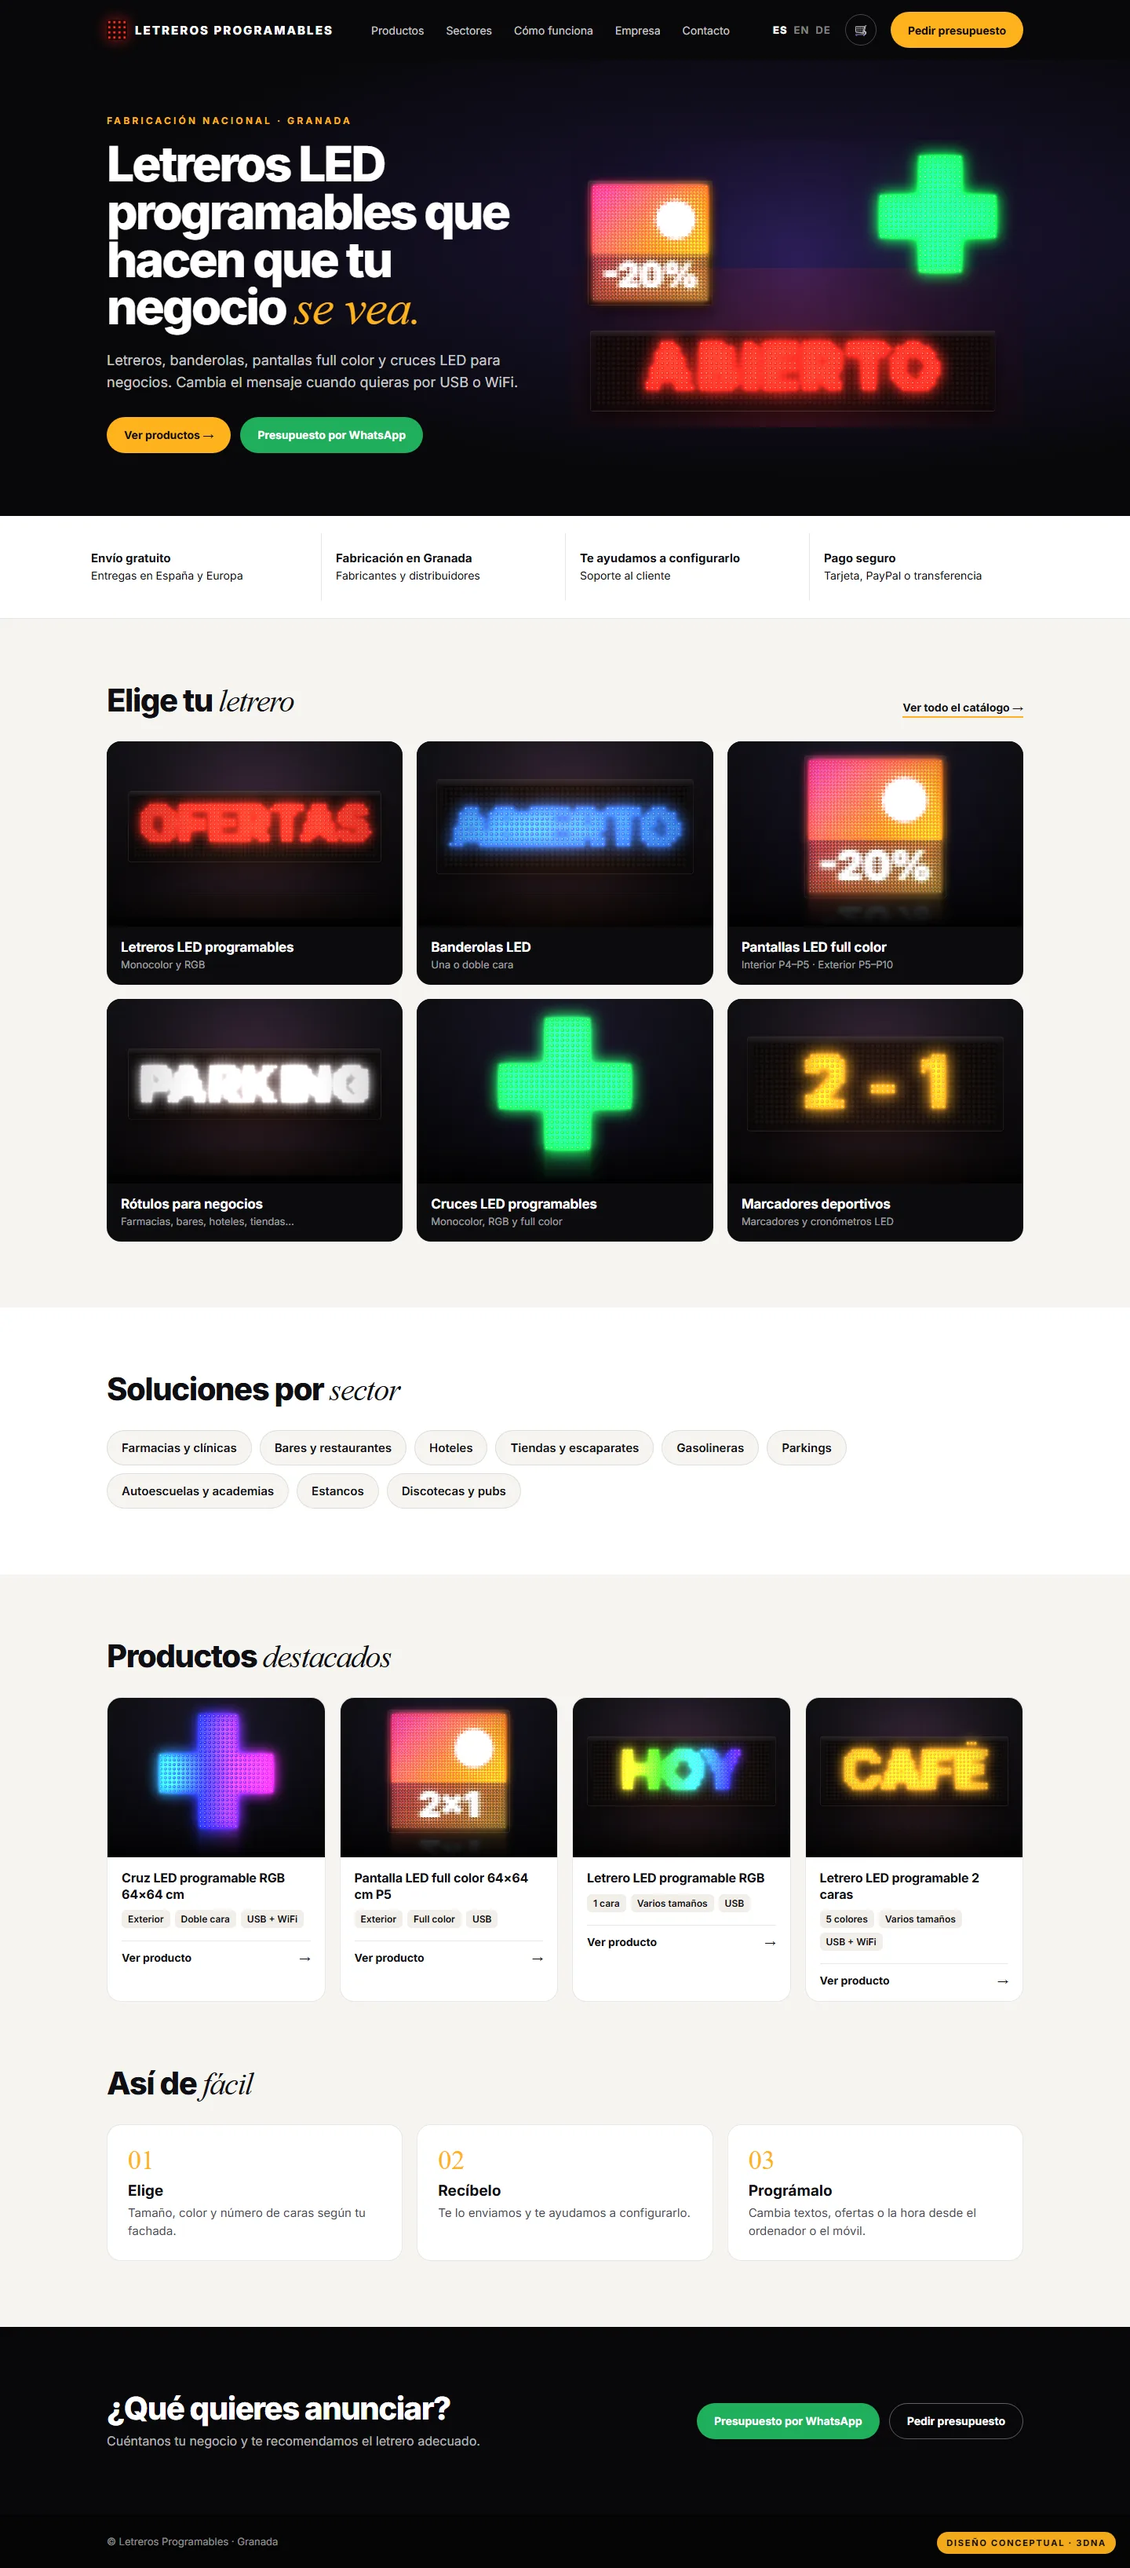
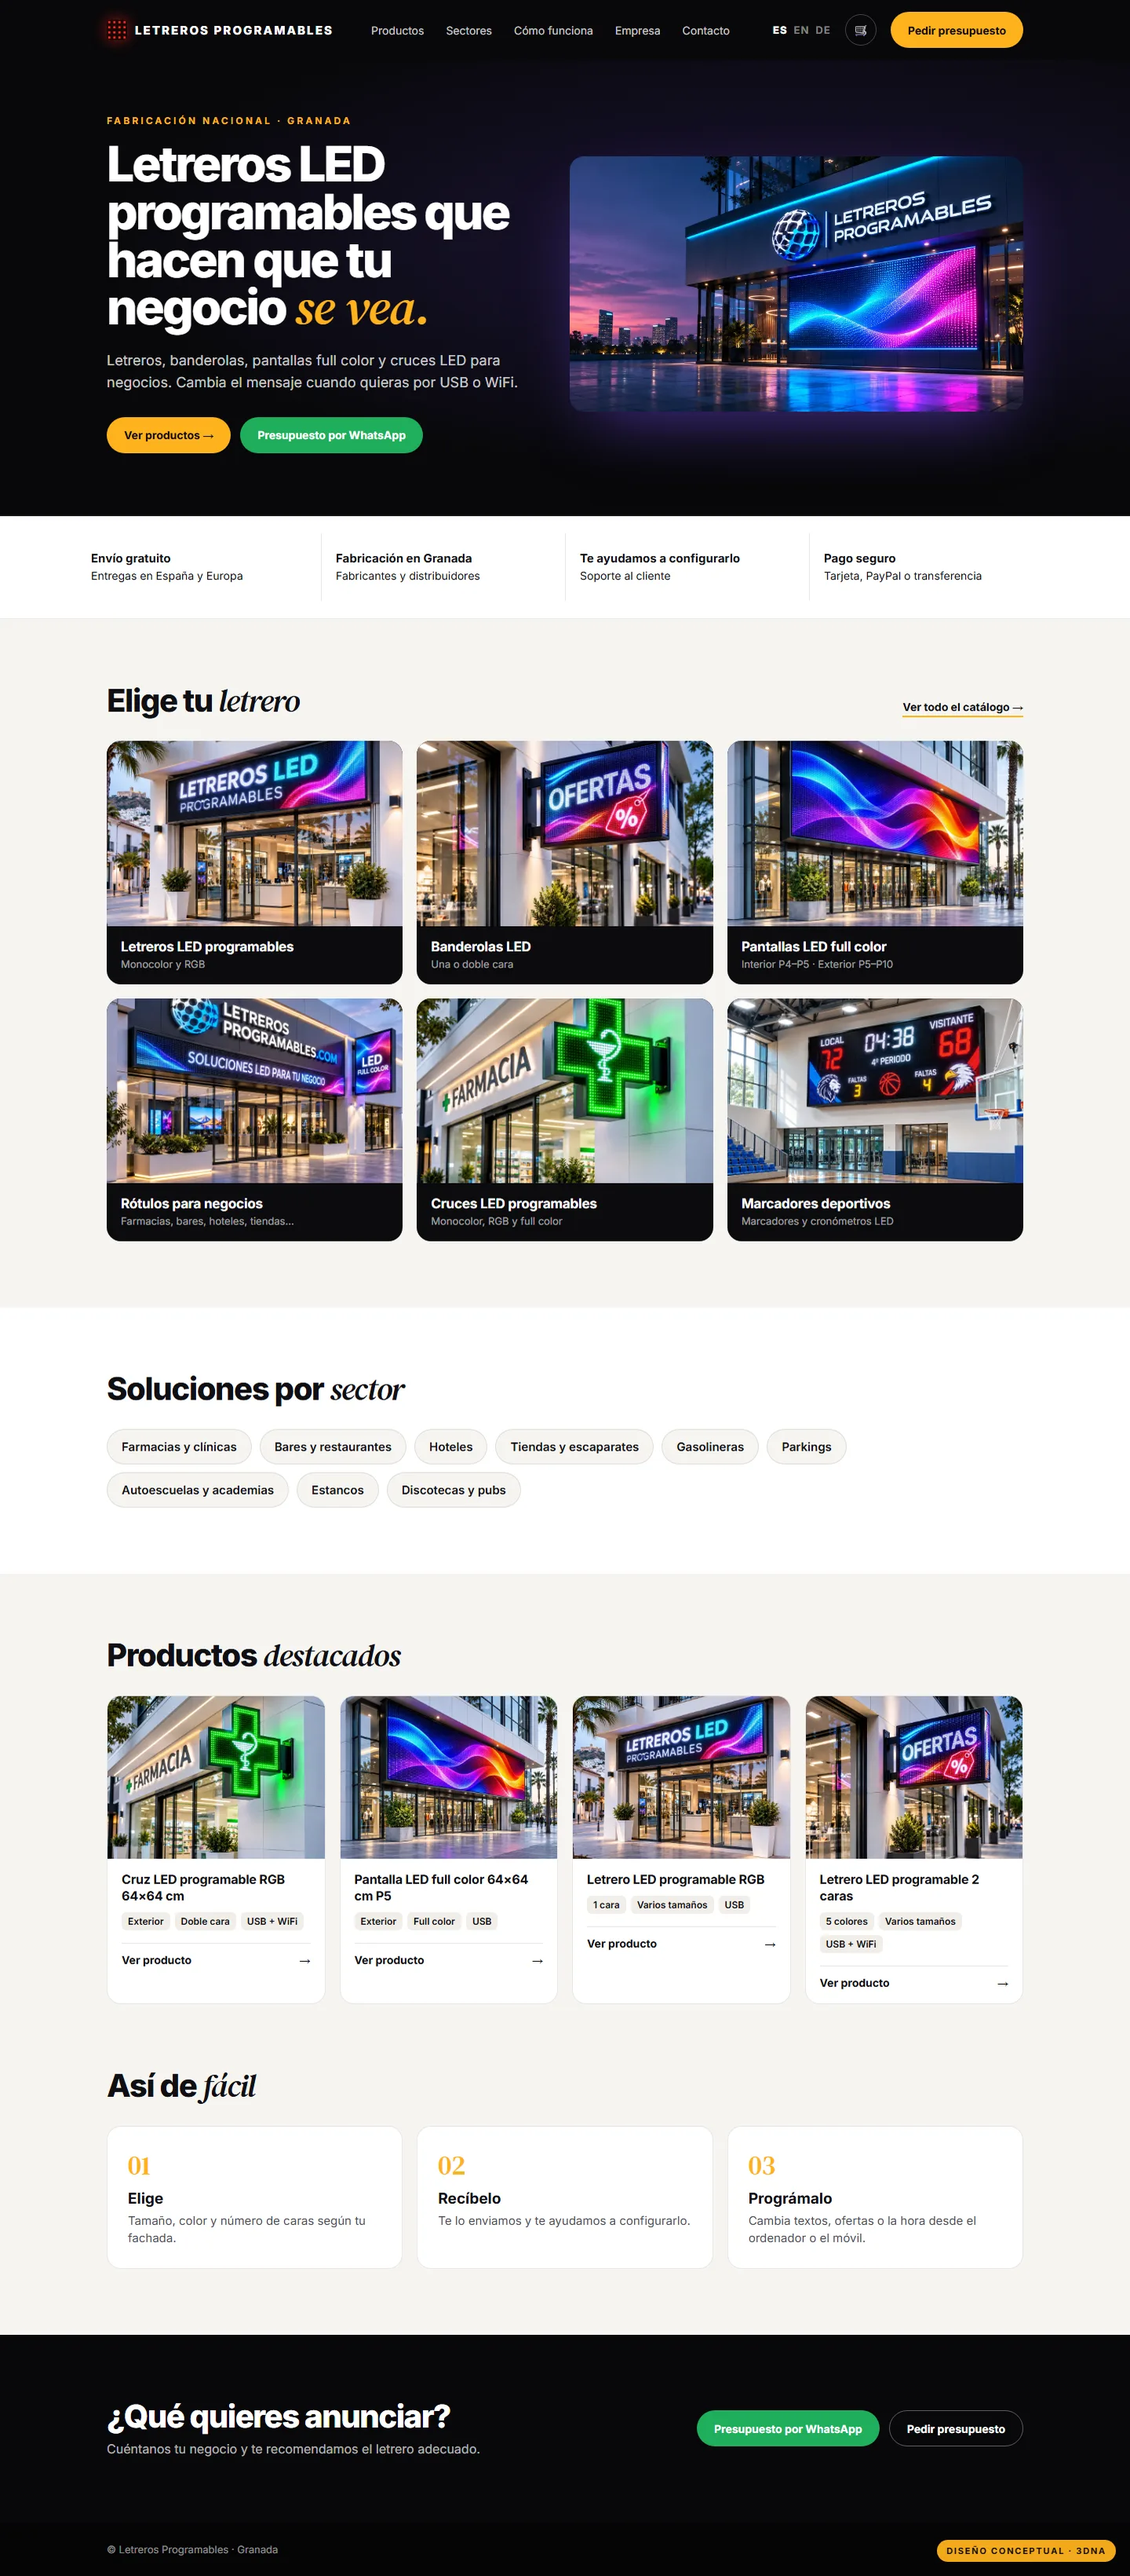
Letreros Programables proposal: homepage mockups (desktop, ES/EN/DE mobile) rebuilt with the product visuals.

diff --git a/scripts/marketing-visuals/letreros-home.html b/scripts/marketing-visuals/letreros-home.html
@@ -49,7 +49,7 @@
   .ctas { display: flex; flex-wrap: wrap; gap: 12px; }
   .m .ctas .btn { flex: 1 1 100%; justify-content: center; }
   .hero .w > * { min-width: 0; }
-  .heroart canvas { width: 100%; max-width: 100%; height: auto; display: block; }
+  .heroart img { width: 100%; height: auto; display: block; border-radius: 18px; box-shadow: 0 30px 80px -30px rgba(120,80,255,.55); }
   /* trust */
   .trust { background: #fff; border-bottom: 1px solid var(--line); }
   .trust .w { display: grid; grid-template-columns: repeat(4, 1fr); }
@@ -69,7 +69,7 @@
   .cats { display: grid; grid-template-columns: repeat(3, 1fr); gap: 18px; }
   .m .cats { grid-template-columns: 1fr 1fr; gap: 10px; }
   .cat { background: #0b0b0e; color: #fff; border-radius: 18px; overflow: hidden; }
-  .cat canvas { width: 100%; display: block; }
+  .cat img { width: 100%; aspect-ratio: 16 / 10; object-fit: cover; display: block; }
   .cat div { padding: 16px 18px 18px; }
   .m .cat div { padding: 10px 12px 13px; }
   .cat b { display: block; font-size: 17px; letter-spacing: -.01em; }
@@ -83,7 +83,7 @@
   .prods { display: grid; grid-template-columns: repeat(4, 1fr); gap: 18px; }
   .m .prods { grid-template-columns: 1fr; gap: 14px; }
   .prod { background: #fff; border-radius: 18px; overflow: hidden; border: 1px solid var(--line); }
-  .prod canvas { width: 100%; display: block; background: #0b0b0e; }
+  .prod img { width: 100%; aspect-ratio: 4 / 3; object-fit: cover; display: block; }
   .prod .b { padding: 16px 18px 18px; }
   .prod h3 { margin: 0 0 10px; font-size: 16px; line-height: 1.3; letter-spacing: -.01em; }
   .specs { display: flex; flex-wrap: wrap; gap: 6px; margin-bottom: 16px; }
@@ -107,7 +107,6 @@
 </head>
 <body>
 <div id="app"></div>
-<script src="led.js"></script>
 <script>
 (async function () {
   await document.fonts.ready; await document.fonts.load("800 20px Inter");
@@ -160,6 +159,10 @@
       ctaT: "Was möchten Sie bewerben?", ctaP: "Erzählen Sie uns von Ihrem Geschäft – wir empfehlen das passende Schild.", stamp: "Konzeptentwurf · 3DNA"
     }
   }[lang];
+  // the proposal's visuals (images/marketing/projects/letreros-programables/), in catalogue order
+  const IMG = "../../images/marketing/projects/letreros-programables/";
+  const FAMS = ["letreros", "banderolas", "pantallas", "rotulos", "cruces", "marcadores"];
+  const PRODS = ["cruces", "pantallas", "letreros", "banderolas"];
   const esc = (s) => String(s).replace(/&/g, "&amp;").replace(/</g, "&lt;");
   const langs = ["ES", "EN", "DE"].map((l) => l.toLowerCase() === lang ? `<b>${l}</b>` : `<span>${l}</span>`).join("");
   document.getElementById("app").innerHTML = `
@@ -173,12 +176,12 @@
       <h1>${esc(T.h1[0])} ${esc(T.h1[1])} <em>${esc(T.h1[2])}</em></h1>
       <p class="lead">${esc(T.lead)}</p>
       <div class="ctas"><a class="btn btn--amber">${esc(T.c1)} →</a><a class="btn btn--wa">${esc(T.c2)}</a></div></div>
-    <div class="heroart"><canvas id="hero" width="1200" height="760"></canvas></div>
+    <div class="heroart"><img src="${IMG}hero-facade-960.webp" alt=""></div>
   </div></section>
   <div class="trust"><div class="w">${T.trust.map(([a, b]) => `<div><b>${esc(a)}</b>${esc(b)}</div>`).join("")}</div></div>
   <section class="s"><div class="w">
     <div class="h2"><h2>${esc(T.catsT[0])} <em>${esc(T.catsT[1])}</em></h2>${mobile ? "" : `<a class="more">${esc(T.all)} →</a>`}</div>
-    <div class="cats">${T.cats.map(([a, b], i) => `<a class="cat"><canvas data-cat="${i}" width="640" height="400"></canvas><div><b>${esc(a)}</b><span>${esc(b)}</span></div></a>`).join("")}</div>
+    <div class="cats">${T.cats.map(([a, b], i) => `<a class="cat"><img src="${IMG}photo-${FAMS[i]}-800.webp" alt=""><div><b>${esc(a)}</b><span>${esc(b)}</span></div></a>`).join("")}</div>
   </div></section>
   <section class="s sectors"><div class="w">
     <div class="h2"><h2>${esc(T.secT[0])} <em>${esc(T.secT[1])}</em></h2></div>
@@ -186,7 +189,7 @@
   </div></section>
   <section class="s"><div class="w">
     <div class="h2"><h2>${esc(T.prodT[0])} <em>${esc(T.prodT[1])}</em></h2></div>
-    <div class="prods">${T.prods.map(([n, sp], i) => `<div class="prod"><canvas data-prod="${i}" width="600" height="440"></canvas><div class="b"><h3>${esc(n)}</h3><div class="specs">${sp.map((x) => `<span>${esc(x)}</span>`).join("")}</div><a>${esc(T.view)} <span>→</span></a></div></div>`).join("")}</div>
+    <div class="prods">${T.prods.map(([n, sp], i) => `<div class="prod"><img src="${IMG}photo-${PRODS[i]}-800.webp" alt=""><div class="b"><h3>${esc(n)}</h3><div class="specs">${sp.map((x) => `<span>${esc(x)}</span>`).join("")}</div><a>${esc(T.view)} <span>→</span></a></div></div>`).join("")}</div>
   </div></section>
   <section class="s" style="padding-top:0"><div class="w">
     <div class="h2"><h2>${esc(T.howT[0])} <em>${esc(T.howT[1])}</em></h2></div>
@@ -199,59 +202,7 @@
   <footer class="foot"><div class="w"><span>© Letreros Programables · Granada</span><span>${langs.replace(/<\/?b>/g, "").replace(/<\/?span>/g, " ")}</span></div></footer>
   <div class="stamp">${esc(T.stamp)}</div>`;
 
-  const { textMask, sampler, panel, crossMask, spill, stage, reflect, vignette } = LED;
-  const RED = "#ff2a1f", AMBER = "#ffb21e", GREEN = "#19ff5e", BLUE = "#2f7bff", WHITE = "#f4f7ff";
-  const rainbow = (cx, cols) => `hsl(${Math.round((cx / cols) * 320)},100%,58%)`;
-  const promo = (cols, rows, label) => sampler((x, w, h) => {
-    const g = x.createLinearGradient(0, 0, w, h); g.addColorStop(0, "#ff2d87"); g.addColorStop(.55, "#ff7a1a"); g.addColorStop(1, "#ffd21a");
-    x.fillStyle = g; x.fillRect(0, 0, w, h); x.fillStyle = "rgba(20,0,40,.55)"; x.fillRect(0, h * .6, w, h * .4);
-    x.fillStyle = "#fff"; x.beginPath(); x.arc(w * .72, h * .3, h * .17, 0, 7); x.fill();
-    x.font = `900 ${Math.round(h * .3)}px Inter`; x.textAlign = "center"; x.textBaseline = "middle"; x.fillText(label, w * .5, h * .8);
-  }, cols, rows);
-  const word = (ctx, W, H, text, color, cols, rows) => {
-    const p = Math.min((W * .82) / cols, (H * .5) / rows), x = (W - cols * p) / 2, y = (H - rows * p) / 2 - H * .04;
-    const t = textMask(text, cols, rows);
-    panel(ctx, { x, y, cols, rows, pitch: p, color: (a, b) => t(a, b) ? (typeof color === "function" ? color(a, cols) : color) : null, glow: 1.1, frame: p * 1.4 });
-    spill(ctx, x, y, cols * p, rows * p, "rgba(255,120,60,1)", .15);
-  };
-  const cross = (ctx, W, H, color) => {
-    const n = 26, p = (H * .72) / n, x = (W - n * p) / 2, y = (H - n * p) / 2 - H * .04, m = crossMask(n, .36);
-    panel(ctx, { x, y, cols: n, rows: n, pitch: p, color: (a, b) => m(a, b) ? (typeof color === "function" ? color(a, b) : color) : null, glow: 1.2, bare: true });
-  };
-  const screen = (ctx, W, H, label) => {
-    const n = 40, p = (H * .72) / n, x = (W - n * p) / 2, y = (H - n * p) / 2 - H * .04;
-    panel(ctx, { x, y, cols: n, rows: n, pitch: p, color: promo(n, n, label), dot: .88, glow: .8, frame: p * 1.4 });
-  };
-  const scenes = [
-    (c, W, H) => word(c, W, H, "OFERTAS", RED, 64, 16),
-    (c, W, H) => word(c, W, H, "ABIERTO", BLUE, 48, 16),
-    (c, W, H) => screen(c, W, H, "-20%"),
-    (c, W, H) => word(c, W, H, "PARKING", WHITE, 64, 16),
-    (c, W, H) => cross(c, W, H, GREEN),
-    (c, W, H) => word(c, W, H, "2 - 1", AMBER, 48, 16)
-  ];
-  const prodScenes = [
-    (c, W, H) => cross(c, W, H, (a, b) => `hsl(${200 + a * 4},100%,58%)`),
-    (c, W, H) => screen(c, W, H, "2x1"),
-    (c, W, H) => word(c, W, H, "HOY", rainbow, 48, 16),
-    (c, W, H) => word(c, W, H, "CAFÉ", AMBER, 48, 16)
-  ];
-  const draw = (canvas, fn) => { const c = canvas.getContext("2d"), W = canvas.width, H = canvas.height;
-    stage(c, W, H, { floor: .82, haze: "rgba(110,80,255,.12)" }); fn(c, W, H); reflect(c, Math.round(H * .82), Math.round(H * .18), .28); vignette(c, W, H, .4); };
-  document.querySelectorAll("[data-cat]").forEach((cv) => draw(cv, scenes[+cv.dataset.cat]));
-  document.querySelectorAll("[data-prod]").forEach((cv) => draw(cv, prodScenes[+cv.dataset.prod]));
-  // hero: message sign + cross
-  const hc = document.getElementById("hero"), h = hc.getContext("2d");
-  const HW = hc.width, HH = hc.height;
-  const g = h.createRadialGradient(HW * .5, HH * .45, 0, HW * .5, HH * .45, HW * .6); g.addColorStop(0, "rgba(120,80,255,.18)"); g.addColorStop(1, "rgba(0,0,0,0)");
-  h.fillStyle = g; h.fillRect(0, 0, HW, HH);
-  const n = 24, cp = 13, m = crossMask(n, .36);
-  panel(h, { x: HW - n * cp - 70, y: 40, cols: n, rows: n, pitch: cp, color: (a, b) => m(a, b) ? GREEN : null, glow: 1.2, bare: true });
-  spill(h, HW - n * cp - 70, 40, n * cp, n * cp, "rgba(25,255,94,1)", .2);
-  panel(h, { x: 60, y: 120, cols: 34, rows: 34, pitch: 9, color: promo(34, 34, "-20%"), dot: .88, glow: .8, frame: 12 });
-  const tm = textMask("ABIERTO", 80, 14, { spacing: .5 });
-  panel(h, { x: 70, y: 520, cols: 80, rows: 14, pitch: 13, color: (a, b) => tm(a, b) ? RED : null, glow: 1.2, frame: 16 });
-  spill(h, 70, 520, 1040, 182, "rgba(255,40,30,1)", .2);
+  await Promise.all([...document.images].map((im) => im.decode().catch(() => null)));
   await new Promise((r) => setTimeout(r, 50));
   document.title = "h:" + Math.ceil(document.documentElement.scrollHeight);
 })();

diff --git a/es/marketing-digital/letreros-programables/index.html b/es/marketing-digital/letreros-programables/index.html
@@ -224,7 +224,7 @@
       <figure class="mpp-shot mpp-shot--new" data-reveal>
         <figcaption><b>Propuesta 3DNA</b><span>Diseño conceptual · escritorio (desplázate dentro de la pantalla)</span></figcaption>
         <div class="mpp-browser"><div class="mpp-browser__bar"><i></i><i></i><i></i><span>letrerosprogramables.com/</span></div>
-          <div class="mpp-browser__view" tabindex="0" aria-label="Diseño conceptual · escritorio (desplázate dentro de la pantalla)"><img src="/images/marketing/projects/letreros-programables/home-desktop-es-1440.webp" width="1440" height="3270" loading="lazy" decoding="async" alt="Propuesta 3DNA — Letreros Programables"></div></div>
+          <div class="mpp-browser__view" tabindex="0" aria-label="Diseño conceptual · escritorio (desplázate dentro de la pantalla)"><img src="/images/marketing/projects/letreros-programables/home-desktop-es-1440.webp" width="1440" height="3280" loading="lazy" decoding="async" alt="Propuesta 3DNA — Letreros Programables"></div></div>
       </figure>
     </div>
     <div class="mpp-webgrid">

diff --git a/en/digital-marketing/letreros-programables/index.html b/en/digital-marketing/letreros-programables/index.html
@@ -224,7 +224,7 @@
       <figure class="mpp-shot mpp-shot--new" data-reveal>
         <figcaption><b>3DNA proposal</b><span>Concept design · desktop (scroll inside the screen)</span></figcaption>
         <div class="mpp-browser"><div class="mpp-browser__bar"><i></i><i></i><i></i><span>letrerosprogramables.com/</span></div>
-          <div class="mpp-browser__view" tabindex="0" aria-label="Concept design · desktop (scroll inside the screen)"><img src="/images/marketing/projects/letreros-programables/home-desktop-es-1440.webp" width="1440" height="3270" loading="lazy" decoding="async" alt="3DNA proposal — Letreros Programables"></div></div>
+          <div class="mpp-browser__view" tabindex="0" aria-label="Concept design · desktop (scroll inside the screen)"><img src="/images/marketing/projects/letreros-programables/home-desktop-es-1440.webp" width="1440" height="3280" loading="lazy" decoding="async" alt="3DNA proposal — Letreros Programables"></div></div>
       </figure>
     </div>
     <div class="mpp-webgrid">

diff --git a/404.html b/404.html
@@ -55,6 +55,7 @@
 
 
 
+
 </head>
 <body>
   <!-- 3dna:header -->
